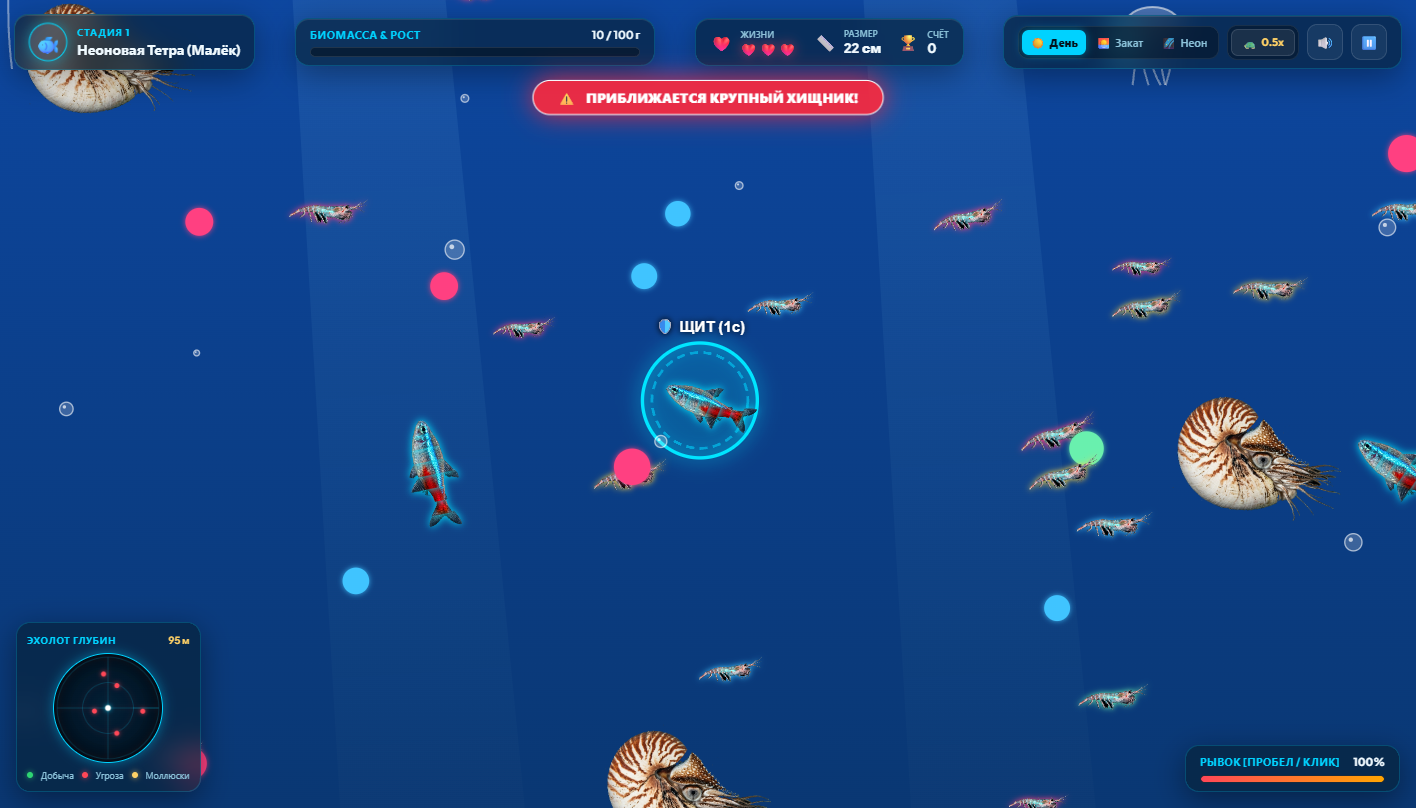
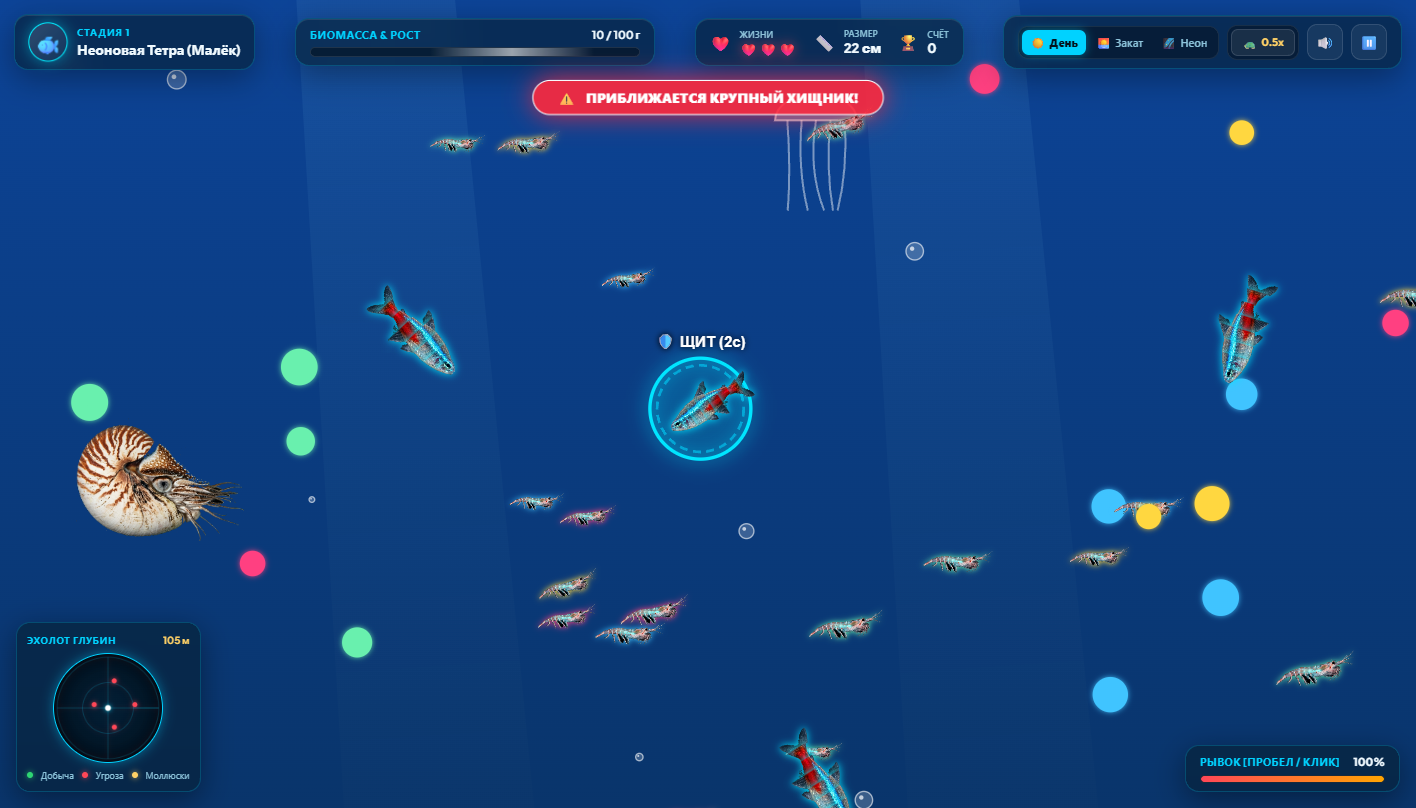
fix: fish orientation when cursor is to the left and live docker sync

diff --git a/js/assets.js b/js/assets.js
@@ -98,23 +98,23 @@ class AssetManager {
     while (normAngle > Math.PI) normAngle -= Math.PI * 2;
     while (normAngle < -Math.PI) normAngle += Math.PI * 2;
 
-    // Определяем базовую ориентацию (рыба плывет влево или вправо)
+    // Определяем базовую ориентацию строго по курсу (рыба плывет влево или вправо)
     const isFacingLeft = Math.cos(normAngle) < 0;
-    const targetFacing = isFacingLeft ? -1 : 1;
-    const effFacing = (smoothFacing !== null && smoothFacing !== undefined) ? smoothFacing : targetFacing;
-    const facingDir = effFacing < 0 ? -1 : 1;
-    const absF = Math.abs(effFacing);
+    const facingSign = isFacingLeft ? -1 : 1;
 
-    // Плавное синусоидальное сжатие силуэта при развороте в 3D толще воды
-    const turnScaleX = facingDir * Math.max(0.18, Math.sin(Math.min(1, absF) * Math.PI * 0.5));
-    const turnScaleY = 1.0 + (1.0 - Math.min(1, absF)) * 0.08;
+    // Плавное синусоидальное сжатие силуэта при развороте в 3D
+    const absF = (smoothFacing !== null && smoothFacing !== undefined)
+      ? Math.min(1, Math.max(0.18, Math.abs(smoothFacing)))
+      : 1.0;
+    const turnScaleX = facingSign * Math.sin(absF * Math.PI * 0.5);
+    const turnScaleY = 1.0 + (1.0 - absF) * 0.08;
 
     // Угол поворота холста:
     // Нос исходного спрайта направлен вправо (+X), спинной плавник сверху (-Y).
-    // Если рыба развернута влево (facingDir === -1), спрайт масштабируется с turnScaleX < 0,
-    // поэтому для совмещения носа с курсом движения поворачиваем на (normAngle ± PI).
+    // Если рыба развернута влево (isFacingLeft === true), спрайт масштабируется с turnScaleX < 0,
+    // поэтому для строгого совмещения носа с курсом движения поворачиваем на (normAngle ± PI).
     // Это гарантирует, что нос ВСЕГДА направлен строго по ходу движения, а спина всегда сверху!
-    const rotAngle = facingDir === -1
+    const rotAngle = isFacingLeft
       ? (normAngle > 0 ? normAngle - Math.PI : normAngle + Math.PI)
       : normAngle;
 

diff --git a/index.html b/index.html
@@ -8,7 +8,7 @@
   <link rel="preconnect" href="https://fonts.googleapis.com">
   <link rel="preconnect" href="https://fonts.gstatic.com" crossorigin>
   <link href="https://fonts.googleapis.com/css2?family=Outfit:wght@400;600;700;900&family=Plus+Jakarta+Sans:wght@500;700;800&display=swap" rel="stylesheet">
-  <link rel="stylesheet" href="style.css">
+  <link rel="stylesheet" href="style.css?v=2.1">
 </head>
 <body>
   <div id="game-container">
@@ -294,11 +294,11 @@
     </div>
   </div>
 
-  <script src="js/audio.js"></script>
-  <script src="js/assets.js"></script>
-  <script src="js/creature.js"></script>
-  <script src="js/mollusk.js"></script>
-  <script src="js/environment.js"></script>
-  <script src="js/game.js"></script>
+  <script src="js/audio.js?v=2.1"></script>
+  <script src="js/assets.js?v=2.1"></script>
+  <script src="js/creature.js?v=2.1"></script>
+  <script src="js/mollusk.js?v=2.1"></script>
+  <script src="js/environment.js?v=2.1"></script>
+  <script src="js/game.js?v=2.1"></script>
 </body>
 </html>

diff --git a/js/creature.js b/js/creature.js
@@ -246,18 +246,11 @@ class Fish {
       : this.turnSpeed;
     this.angle += diff * turnRate;
 
-    // Плавное отслеживание направления и наклона рыбы без переворачивания
-    const cosA = Math.cos(this.angle);
+    // Отслеживание направления (влево / вправо)
+    this.facing = Math.cos(this.angle) < 0 ? -1 : 1;
 
-    // Гистерезис (зона нечувствительности +/- 0.10)
-    if (cosA > 0.10) {
-      this.facing = 1;
-    } else if (cosA < -0.10) {
-      this.facing = -1;
-    }
-
-    // Плавный поворот тела в 3D (для игрока более отзывчивый)
-    const turnLerp = this.isPlayer ? 0.35 : 0.16;
+    // Плавный поворот тела в 3D
+    const turnLerp = this.isPlayer ? 0.38 : 0.18;
     this.smoothFacing += (this.facing - this.smoothFacing) * turnLerp;
     this.pitch = this.angle;
 
